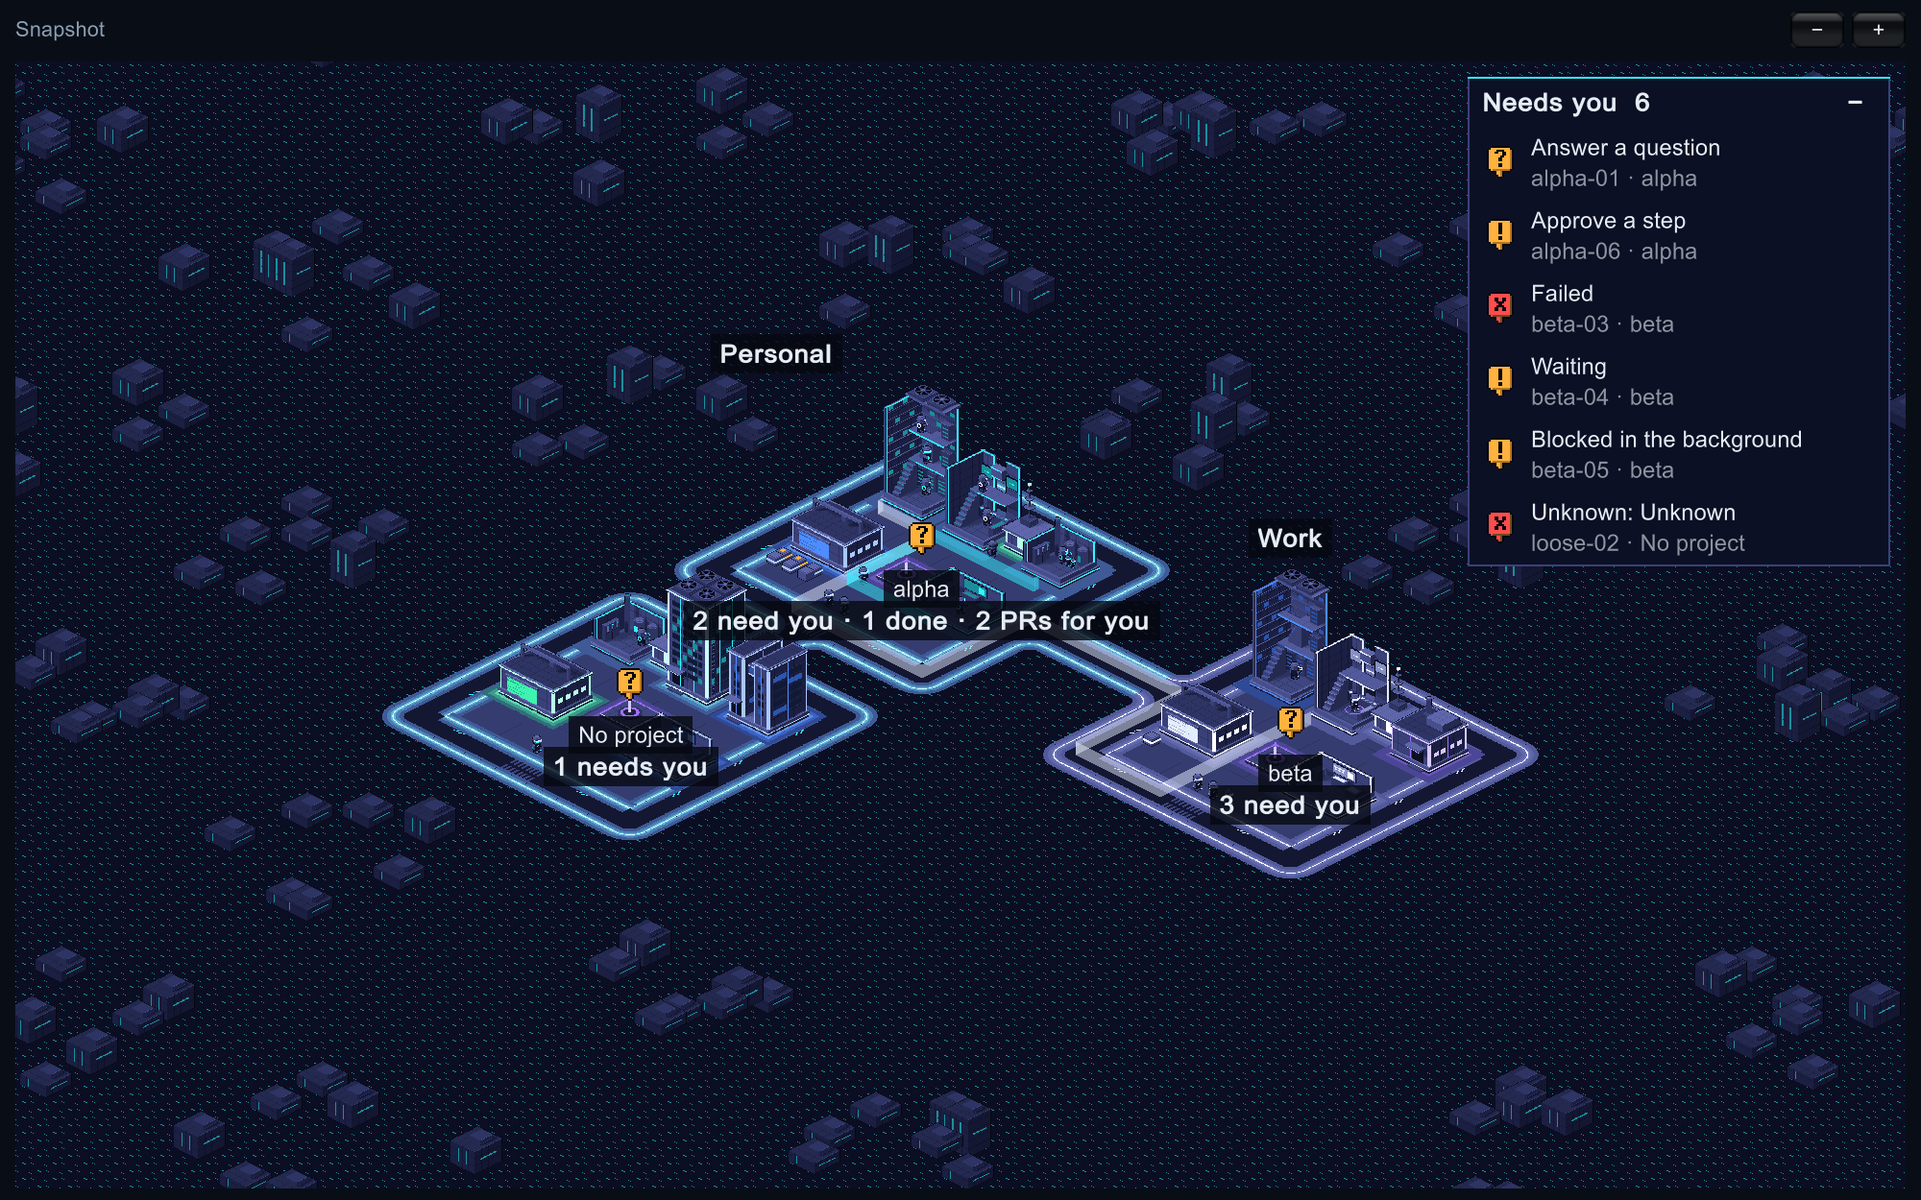
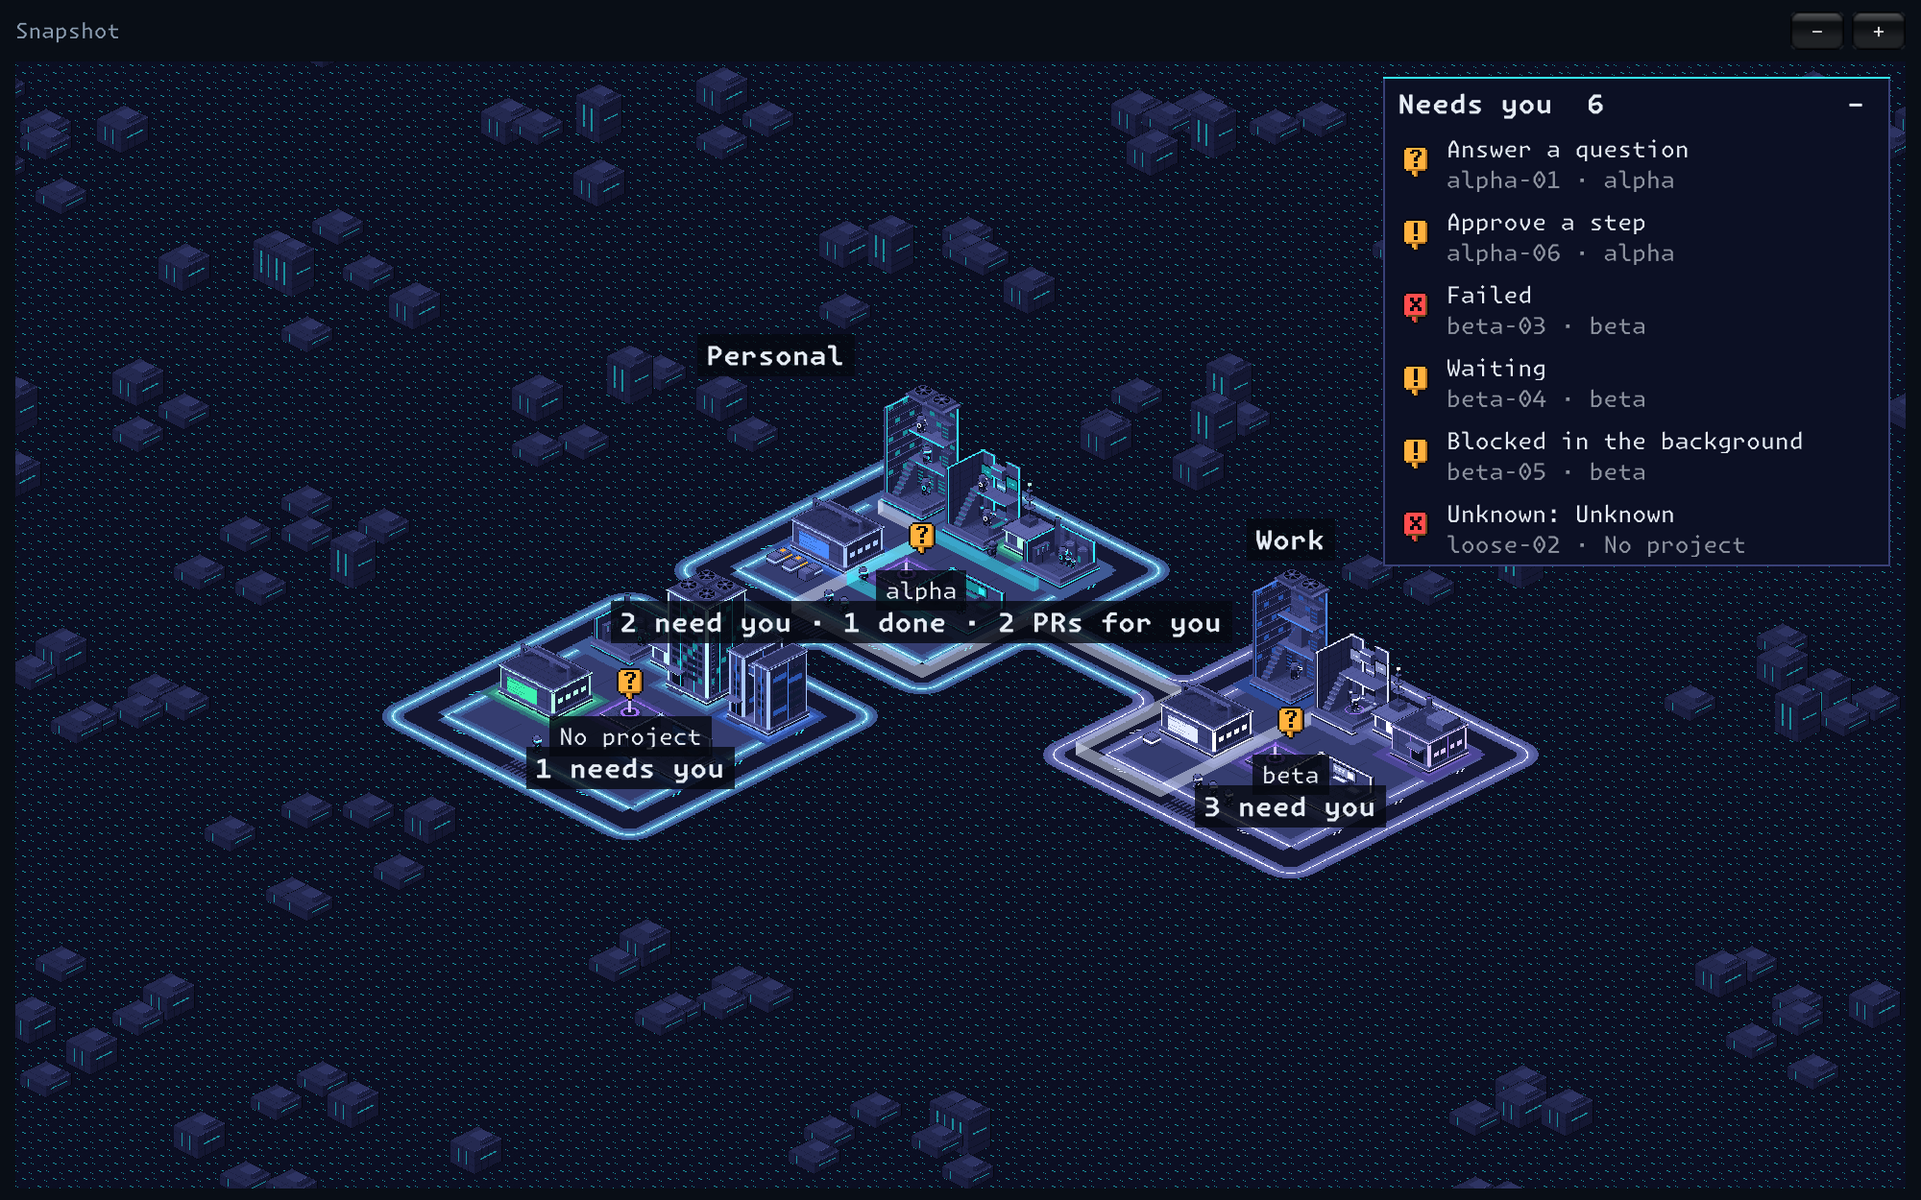
GRID-40: all text is set in a Nerd Font
Every piece of text the app draws (names on the map, the panels, the card,
the lists, buttons, text boxes and code blocks) is set in one font family
taken from the Mac: the one named by the new `font` setting, else the first
installed family that is a Nerd Font. The app brings no font file. With
none found the text stays as it was, and the log says which it was.

- Fonts.Pick chooses the family; the skin's font is set once, and every
  style is made from the skin.
- The letters are wider than the old ones: the panels are wider, the card's
  workspace chip no longer cuts into the line above it, and the lists'
  state column has room for its longest word.
- Picture runs take -lists for a picture of the lists.
- Every README picture with text in it is retaken.

diff --git a/Assets/TheGrid/WorldPanels.cs b/Assets/TheGrid/WorldPanels.cs
@@ -11,7 +11,7 @@ namespace TheGrid
     // Flat plates in palette colours. They say only what Panels made from the roster snapshot.
     public sealed class WorldPanels
     {
-        const float Wide = 220, CardWide = 260, DepotWide = 330, Margin = 8, TitleHigh = 26, RowHigh = 38, CardHigh = 92, LineHigh = 18;
+        const float Wide = 264, CardWide = 320, DepotWide = 396, Margin = 8, TitleHigh = 26, RowHigh = 38, CardHigh = 95, LineHigh = 18;
         const int SubagentLines = 4, SubagentLinesWhenShort = 1;
         const int MostRows = 6, RowsWhenShort = 2, MostPulls = 5;
         static readonly Color Plate = new Color32(0x0c, 0x10, 0x24, 255), Edge = new Color32(0x3a, 0x41, 0x78, 255), Lit = new Color32(0x35, 0xf2, 0xff, 255);
@@ -125,13 +125,13 @@ namespace TheGrid
                 GUI.Label(new Rect(card.x + 10, card.y + 6, card.width - 20, 22), about.title, strong);
                 GUI.Label(new Rect(card.x + 10, card.y + 27, card.width - 20, 20), about.who, text);
                 Faint(new Rect(card.x + 10, card.y + 45, card.width - 20, 20), about.doing, text);
-                Faint(new Rect(card.x + 10, card.y + 63, 70, 20), about.since, text);
+                Faint(new Rect(card.x + 10, card.y + 66, 70, 20), about.since, text);
                 // The workspace: a button that moves the repo to its next workspace, as in the lists. A session with no
                 // repo has none to move.
                 if (about.workspace != "")
                 {
                     bool pr = about.prNumber > 0 && about.prUrl != "";
-                    var ws = new Rect(card.x + 84, card.y + 60, Mathf.Min(110, card.width - 84 - (pr ? 94 : 10)), 22);
+                    var ws = new Rect(card.x + 84, card.y + 65, Mathf.Min(110, card.width - 84 - (pr ? 94 : 10)), 22);
                     if (about.repoRoot == "") Faint(new Rect(ws.x + 8, ws.y + 2, ws.width - 10, 20), about.workspace, text);
                     else
                     {
@@ -140,7 +140,7 @@ namespace TheGrid
                         if (GUI.Button(ws, GUIContent.none, GUIStyle.none)) WorkspaceClicked = true;
                     }
                 }
-                float y = card.y + 86;
+                float y = card.y + 89;
                 // The way into the conversation: where it already lives, if it is in a zellij pane, and the command that
                 // opens it in a terminal. Of the command the card shows the end, which says which conversation; Copy takes
                 // all of it. Nothing is run.
@@ -168,7 +168,7 @@ namespace TheGrid
                     Faint(new Rect(card.x + 10, y + i * LineHigh, card.width - 20, 20), subagents[i], text);
                 if (about.prNumber > 0 && about.prUrl != "")
                 {
-                    var pr = new Rect(card.xMax - 84, card.y + 60, 74, 22);
+                    var pr = new Rect(card.xMax - 84, card.y + 65, 74, 22);
                     Fill(pr, Edge);
                     GUI.Label(new Rect(pr.x + 8, pr.y + 2, pr.width - 10, 18), "PR #" + about.prNumber, text);
                     if (GUI.Button(pr, GUIContent.none, GUIStyle.none)) Application.OpenURL(about.prUrl);   // Panels.Card kept only a web link
@@ -347,11 +347,15 @@ namespace TheGrid
             }, GUIContent.none, GUIStyle.none);
         }
 
-        // The letters of a code block: fixed-width, from a font every Mac has, so the app brings none of its own.
+        // The font all the app's text is set in, when it has one of its own; null for the skin's.
+        public Font Letters;
+
+        // The letters of a code block: the app's own font, which for a Nerd Font is fixed-width; else a fixed-width font
+        // every Mac has. The app brings no font of its own.
         GUIStyle CodeStyle(GUIStyle text)
         {
             if (code == null)
-                code = new GUIStyle(text) { font = Font.CreateDynamicFontFromOSFont(new[] { "Menlo", "Monaco", "Courier New" }, 11), fontSize = 11, wordWrap = true, clipping = TextClipping.Clip };
+                code = new GUIStyle(text) { font = Letters != null ? Letters : Font.CreateDynamicFontFromOSFont(new[] { "Menlo", "Monaco", "Courier New" }, 11), fontSize = 11, wordWrap = true, clipping = TextClipping.Clip };
             return code;
         }
 
@@ -394,7 +398,7 @@ namespace TheGrid
         string copiedKey = "";   // the bot whose command was last copied, and until when the card says so
         float copiedUntil;
 
-        const float ListWide = 236, ListRow = 24, CloudWide = 520, CodePad = 8, CopyRoom = 22;
+        const float ListWide = 280, ListRow = 24, CloudWide = 520, CodePad = 8, CopyRoom = 22;
         string typed = "";   // the name of a new workspace, as far as it has been typed
         string pasted = "";  // what the owner put in the cloud panel's box
         int cloudAccount;    // and the account chosen there

diff --git a/Assets/TheGrid/Tests/FontsTests.cs b/Assets/TheGrid/Tests/FontsTests.cs
@@ -1,0 +1,38 @@
+using NUnit.Framework;
+
+namespace TheGrid.Core.Tests
+{
+    public class FontsTests
+    {
+        static readonly string[] Installed = { "Arial", "Menlo", "MonaspiceKr NF Bold", "MonaspiceKr NF", "Hack Nerd Font Mono", "INFO Sans", "SomeNF" };
+
+        // With nothing asked for: the first family, by name, that says it is a Nerd Font, in full or by the short "NF".
+        [Test]
+        public void ANerdFontIsPickedWhenNoneIsNamed() => Assert.AreEqual("Hack Nerd Font Mono", Fonts.Pick("", Installed));
+
+        // A family before its own bold and italic cuts.
+        [Test]
+        public void TheFamilyNotOneOfItsCuts() => Assert.AreEqual("MonaspiceKr NF", Fonts.Pick("", new[] { "MonaspiceKr NF Bold", "Menlo", "MonaspiceKr NF Italic", "MonaspiceKr NF" }));
+
+        // "NF" counts as a word of its own only.
+        [Test]
+        public void NoNerdFontNoFont() => Assert.AreEqual("", Fonts.Pick("", new[] { "Arial", "Menlo", "INFO Sans", "SomeNF" }));
+
+        // The one named in the settings, as the Mac spells it, whatever kind of font it is.
+        [TestCase("Menlo", "Menlo")]
+        [TestCase("menlo", "Menlo")]
+        [TestCase(" MonaspiceKr NF Bold ", "MonaspiceKr NF Bold")]
+        public void TheFontThatWasNamed(string named, string expected) => Assert.AreEqual(expected, Fonts.Pick(named, Installed));
+
+        // Named but not on this Mac: as if none was named.
+        [Test]
+        public void ANamedFontThatIsNotInstalled() => Assert.AreEqual("Hack Nerd Font Mono", Fonts.Pick("Missing Sans", Installed));
+
+        [Test]
+        public void NothingInstalledNothingPicked()
+        {
+            Assert.AreEqual("", Fonts.Pick(null, null));
+            Assert.AreEqual("", Fonts.Pick("Menlo", new string[0]));
+        }
+    }
+}

diff --git a/Assets/TheGrid/RosterApp.cs b/Assets/TheGrid/RosterApp.cs
@@ -197,6 +197,14 @@ namespace TheGrid
                 world.Hurry(.6f);
                 yield return Shot("stairs.png");
             }
+            // A picture of the lists, which a snapshot otherwise never shows.
+            if (Array.IndexOf(Environment.GetCommandLineArgs(), "-lists") >= 0)
+            {
+                nextWorldOpen = false;
+                yield return null;
+                yield return null;
+                yield return Shot("lists.png");
+            }
             Application.Quit();
         }
 
@@ -488,7 +496,7 @@ namespace TheGrid
             GUILayout.BeginHorizontal();
             var old = GUI.contentColor;
             GUI.contentColor = ColorFor(a.state);
-            GUILayout.Label(LabelFor(a.state), chip, GUILayout.Width(84));
+            GUILayout.Label(LabelFor(a.state), chip, GUILayout.Width(96));
             GUI.contentColor = old;
             GUILayout.Label(a.name, title);
             GUILayout.Label(a.account, dim);
@@ -655,6 +663,10 @@ namespace TheGrid
 
         void MakeStyles()
         {
+            // All text in one family from the Mac: every style below is made from the skin, so the skin's font is theirs.
+            string family = Fonts.Pick(settings.font, Font.GetOSInstalledFontNames());
+            if (family != "") GUI.skin.font = panels.Letters = Font.CreateDynamicFontFromOSFont(family, 12);
+            Debug.Log(family != "" ? "[font] " + family : "[font] no Nerd Font on this Mac and none named in settings.json: text is left as it is");
             var text = new Color(.9f, .93f, .96f);
             var faint = new Color(.55f, .62f, .7f);
             chip = new GUIStyle(GUI.skin.label) { fontSize = 11, fontStyle = FontStyle.Bold, clipping = TextClipping.Clip };

diff --git a/Assets/TheGrid/Core/Settings.cs b/Assets/TheGrid/Core/Settings.cs
@@ -20,6 +20,7 @@ namespace TheGrid.Core
         public bool pullRequests = true;                        // ask GitHub, through gh, about the open pull requests of the repos on the map
         public string ghPath = "";                              // empty means: look in the usual places
         public string zellijPath = "";                          // the same
+        public string font = "";                                // the family all text is set in; empty means: the first Nerd Font this Mac has
         public List<string> workspaces = new List<string> { DefaultWorkspace };
         public List<RepoWorkspace> repoWorkspaces = new List<RepoWorkspace>();
         public List<WorkspaceLight> workspaceLights = new List<WorkspaceLight>();   // a light: one of Lights.LookNames
@@ -39,6 +40,7 @@ namespace TheGrid.Core
             s.claudePath = s.claudePath ?? "";
             s.ghPath = s.ghPath ?? "";
             s.zellijPath = s.zellijPath ?? "";
+            s.font = s.font ?? "";
             s.repoWorkspaces = s.repoWorkspaces ?? new List<RepoWorkspace>();
             s.workspaceLights = s.workspaceLights ?? new List<WorkspaceLight>();
             if (s.workspaces == null || s.workspaces.Count == 0) s.workspaces = new List<string> { DefaultWorkspace };
@@ -54,6 +56,7 @@ namespace TheGrid.Core
             pullRequests = fresh.pullRequests;
             ghPath = fresh.ghPath;
             zellijPath = fresh.zellijPath;
+            font = fresh.font;
             workspaces = fresh.workspaces;
             repoWorkspaces = fresh.repoWorkspaces;
             workspaceLights = fresh.workspaceLights;

diff --git a/Assets/TheGrid/Core/Fonts.cs b/Assets/TheGrid/Core/Fonts.cs
@@ -1,0 +1,24 @@
+using System;
+using System.Collections.Generic;
+
+namespace TheGrid.Core
+{
+    // Which of the Mac's fonts the app's text is set in.
+    public static class Fonts
+    {
+        // The family to use: the one named in the settings when the Mac has it, spelled as the Mac spells it; else the
+        // first family, by name, that says it is a Nerd Font, in full or by the short "NF", which puts a family before its
+        // own bold and italic cuts. "" when there is none: the text then stays as it is without this.
+        public static string Pick(string named, IEnumerable<string> installed)
+        {
+            string wanted = (named ?? "").Trim(), nerd = "";
+            foreach (var name in installed ?? new string[0])
+            {
+                if (wanted != "" && string.Equals(name, wanted, StringComparison.OrdinalIgnoreCase)) return name;
+                bool isNerd = name.IndexOf("Nerd Font", StringComparison.OrdinalIgnoreCase) >= 0 || Array.IndexOf(name.Split(' '), "NF") >= 0;
+                if (isNerd && (nerd == "" || string.CompareOrdinal(name, nerd) < 0)) nerd = name;
+            }
+            return nerd;
+        }
+    }
+}

diff --git a/README.md b/README.md
@@ -30,7 +30,7 @@ The first time a build runs, macOS asks whether The Grid can access folders such
 
 Each row shows the state (question, permission, done, running and so on), what a running agent is doing (reading, editing, testing, reviewing, or just working when it cannot be told), the session name, its account, how long it has been in that state, the repo, the ticket read from the branch name, the pull request, and the workspace. Click the pull request to open it. Click the workspace to give the repo another: a short list opens with every workspace, the repo's own marked. Click one to move the repo there, or type a name in the last line and press Return (or **Add**) to make a new workspace and move the repo into it. **×**, Escape or a click beside the list puts it away. The list's last line, **Bring a cloud session here**, is described under the world view.
 
-Settings live in `~/Library/Application Support/DefaultCompany/The Grid/settings.json`, created on first launch. You do not need to edit it to add a workspace: the list does that. The app re-reads the file the next time you pick a workspace or click a region's name.
+Settings live in `~/Library/Application Support/DefaultCompany/The Grid/settings.json`, created on first launch. You do not need to edit it to add a workspace: the list does that. The app re-reads the file the next time you pick a workspace or click a region's name. All text is set in a [Nerd Font](https://www.nerdfonts.com) when the Mac has one: the app takes the font from the Mac and brings none of its own, and says in its log which one it took. Without one the text is in Unity's own letters.
 
 | Field | Meaning |
 |---|---|
@@ -39,6 +39,7 @@ Settings live in `~/Library/Application Support/DefaultCompany/The Grid/settings
 | `pullRequests` | `true` to ask GitHub, through `gh`, about open pull requests; `false` and the app asks nothing of the network. Starts as `true` |
 | `ghPath` | Path to the `gh` program. Empty means look in `/opt/homebrew/bin`, `/usr/local/bin` and `/usr/bin` |
 | `zellijPath` | Path to the `zellij` program, asked which tab a session is in. Empty means look in `~/.cargo/bin`, `/opt/homebrew/bin` and `/usr/local/bin` |
+| `font` | The font family all text is set in, as Font Book names it. Empty means the first installed family that is a Nerd Font (its name has "Nerd Font" or the word "NF"). Read when the app starts |
 | `workspaces` | Workspace names, in the order the list shows them and regions take their lights. Starts as `Personal`; a workspace made in the app is added at the end |
 | `repoWorkspaces` | Which repo belongs to which workspace. A repo not listed is `Personal` |
 | `workspaceLights` | The light of a workspace's region in the world: `cyan`, `white`, `rose`, `mint`, `violet`, `blue` or `ember`. A workspace not listed takes its place in `workspaces`: the first is cyan, the second white, and so on |
@@ -149,7 +150,7 @@ A lane runs round every sector, and roads cross the open ground so that every se
 - **Open it here** is `claude --teleport <id>`, after a `cd` to the repo's folder and with the account named as on a bot's card. It opens the conversation in your terminal. Nothing is kept on this Mac until you say something in it; from then on it is a session like any other, with a bot.
 - **Download only** adds one short question that is asked with no terminal and no tools (`-p … --tools '' --permission-mode plan`). That writes the whole conversation to this Mac. It is one model turn over the whole conversation, which for a long session is large: the one it was tried on read over 900,000 tokens.
 
-Either way the folder must have no uncommitted changes, and teleport switches it to the session's branch. If the answer is `Session not found`, try the other account. The letters are Menlo, which every Mac has; the app brings no font and no library for this. The Grid runs neither command and asks nothing of the cloud: it only writes the command. Ordinary claude.ai chats cannot be brought over this way.
+Either way the folder must have no uncommitted changes, and teleport switches it to the session's branch. If the answer is `Session not found`, try the other account. The letters are the app's font (see `font` in the settings), or Menlo when the Mac has no Nerd Font; the app brings no font and no library for this. The Grid runs neither command and asks nothing of the cloud: it only writes the command. Ordinary claude.ai chats cannot be brought over this way.
 
 ![The panel that makes the command for a cloud session](docs/art/world-cloud.png)
 
@@ -184,7 +185,7 @@ To look at the world without any agent sessions, start the app on a roster snaps
 Builds/TheGrid.app/Contents/MacOS/"The Grid" -snapshot "$PWD/fixtures/world/snapshot.json"
 ```
 
-Add `-shots <folder>` and it saves `far.png` and `near.png` there and quits; `-select <account>|<session id>` selects that bot for `near.png`, and `-messages <pile snapshot file>` (try `fixtures/world/messages.json`) shows its messages arriving and saves `start.png`, `courier.png` and `pulse.png` too. `-pulls <file>` (try `fixtures/world/pulls.json`) puts those pull requests at the depots, since a snapshot never asks GitHub, and `-depot <sector name>` opens that depot's list in `near.png`. `-moved <world file>` lays the map again from that `world.json` after `far.png` and saves `moved.png`: a picture of a map its owner has arranged. `-cloud <sector name>` opens the cloud panel for that sector in `near.png`, with `-pasted <text>` in its box. `-workspace <sector name>` opens that sector's list of workspaces in `near.png`, and with `-give <workspace>` too the repo is given that workspace and `given.png` shows the map afterwards. `-where <text>` puts that on the selected bot's card as the place its session lives, since a snapshot never asks zellij. `-then <snapshot file>` (try `fixtures/world/later.json`) swaps the snapshot for a later one after `near.png` and saves `stairs.png` with every bot that has somewhere new to go three fifths of its way there. With the editor closed, **The Grid > Render World Pictures** does much the same without a window, into `Logs/`, though without the names and badges; it also renders the first sector at three beats (`world-jobs-2.png`, `-5`, `-9`), where the bots at work are seen in other poses and places:
+Add `-shots <folder>` and it saves `far.png` and `near.png` there and quits; `-select <account>|<session id>` selects that bot for `near.png`, and `-messages <pile snapshot file>` (try `fixtures/world/messages.json`) shows its messages arriving and saves `start.png`, `courier.png` and `pulse.png` too. `-pulls <file>` (try `fixtures/world/pulls.json`) puts those pull requests at the depots, since a snapshot never asks GitHub, and `-depot <sector name>` opens that depot's list in `near.png`. `-moved <world file>` lays the map again from that `world.json` after `far.png` and saves `moved.png`: a picture of a map its owner has arranged. `-lists` saves `lists.png` too, a picture of the lists. `-cloud <sector name>` opens the cloud panel for that sector in `near.png`, with `-pasted <text>` in its box. `-workspace <sector name>` opens that sector's list of workspaces in `near.png`, and with `-give <workspace>` too the repo is given that workspace and `given.png` shows the map afterwards. `-where <text>` puts that on the selected bot's card as the place its session lives, since a snapshot never asks zellij. `-then <snapshot file>` (try `fixtures/world/later.json`) swaps the snapshot for a later one after `near.png` and saves `stairs.png` with every bot that has somewhere new to go three fifths of its way there. With the editor closed, **The Grid > Render World Pictures** does much the same without a window, into `Logs/`, though without the names and badges; it also renders the first sector at three beats (`world-jobs-2.png`, `-5`, `-9`), where the bots at work are seen in other poses and places:
 
 ```bash
 /Applications/Unity/Hub/Editor/6000.4.3f1/Unity.app/Contents/MacOS/Unity -batchmode -projectPath "$PWD" -executeMethod TheGrid.EditorTools.GridMenu.WorldPictures -quit
